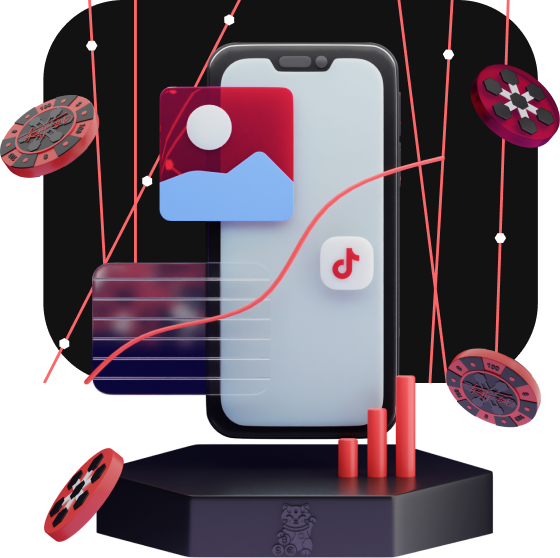
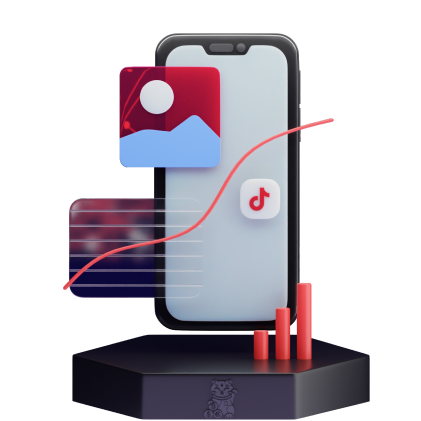
add anim

diff --git a/src/components/index-page-layout/background-items/background-items.jsx b/src/components/index-page-layout/background-items/background-items.jsx
@@ -3,10 +3,7 @@ import * as styles from './background-items.module.css';
 
 import netSvg from '../../../images/background-elements/net.svg';
 
-import lineToRight from '../../../images/background-elements/line-to-right.svg';
-import lineToLeft from '../../../images/background-elements/line-to-left.svg';
-import lineToRight_480 from '../../../images/background-elements/line-to-right-480.svg';
-import lineToLeft_480 from '../../../images/background-elements/line-to-left-480.svg';
+import AnimatedLine from "./animated-line/animated-line";
 
 import bubble2 from '../../../images/background-elements/blurred-circle-2.png'
 import bubble3 from '../../../images/background-elements/blurred-circle-3.png'
@@ -21,22 +18,39 @@ import bubble5_480 from '../../../images/background-elements/blurred-circle-5-48
 import bubble6_480 from '../../../images/background-elements/blurred-circle-6-480.png'
 
 import MediaImage from "../../ui/media-image/media-image";
-import { LangContext } from "../../../utils/contexts";
+import { LangContext, Is480Context } from "../../../utils/contexts";
 
 export default function BackgroundItems() {
+  const [ offset, setOffset ] = React.useState(0)
+
   const lang = React.useContext(LangContext).lang
-  const langPrefix =  lang !== 'ru' ? lang : ''
+  const is480 = React.useContext(Is480Context);
+
+  const langPrefix =  lang !== 'ru' ? lang : '';
+
+  React.useEffect(() => {
+    const documentHeight = document.body.scrollHeight
+    console.log(documentHeight);
+    const handleScroll = () => {
+      setOffset((window.pageYOffset / documentHeight) * 80);
+    }
+    handleScroll()
+
+    window.addEventListener('scroll', handleScroll)
+    return () => window.removeEventListener('scroll', handleScroll)
+  }, [])
+  
   return (
     <div className={styles.backgroundItems}>
       <div className={`${styles.net1} ${styles['net1' + langPrefix]}`}><MediaImage image={netSvg} no480={true}/></div>
       <div className={`${styles.net2} ${styles['net2' + langPrefix]}`}><MediaImage image={netSvg} no480={true}/></div>
       <div className={`${styles.net3} ${styles['net3' + langPrefix]}`}><MediaImage image={netSvg} no480={true}/></div>
       <div className={`${styles.net4} ${styles['net4' + langPrefix]}`}><MediaImage image={netSvg} no480={true}/></div>
-
-      <div className={`${styles.line1} ${styles['line1' + langPrefix]}`}><MediaImage image={lineToRight} image480={lineToRight_480}/></div>
-      <div className={`${styles.line2} ${styles['line2' + langPrefix]}`}><MediaImage image={lineToLeft} image480={lineToLeft_480}/></div>
-      <div className={`${styles.line3} ${styles['line3' + langPrefix]}`}><MediaImage image={lineToRight} image480={lineToRight_480}/></div>
-      <div className={`${styles.line4} ${styles['line4' + langPrefix]}`}><MediaImage image={lineToLeft} image480={lineToLeft_480}/></div>
+      
+      <div className={`${styles.line1} ${styles['line1' + langPrefix]}`}><AnimatedLine position={offset}/></div>
+      <div className={`${styles.line2} ${styles['line2' + langPrefix]}`}><AnimatedLine position={offset} isRight={true} /></div>
+      <div className={`${styles.line3} ${styles['line3' + langPrefix]}`}><AnimatedLine position={offset}/></div>
+      <div className={`${styles.line4} ${styles['line4' + langPrefix]}`}><AnimatedLine position={offset} isRight={true} /></div>
       
       <div className={`${styles.blurredBubble2} ${styles['blurredBubble2' + langPrefix]}`}><MediaImage image={bubble2} image480={bubble2_480}/></div>
       <div className={`${styles.blurredBubble3} ${styles['blurredBubble3' + langPrefix]}`}><MediaImage image={bubble3} image480={bubble3_480}/></div>

diff --git a/src/components/sections/what-we-do/what-we-do.jsx b/src/components/sections/what-we-do/what-we-do.jsx
@@ -4,6 +4,7 @@ import WhatWeDoCard from "./what-we-do-card/what-we-do-card";
 import MediaImage from '../../ui/media-image/media-image'
 import BasicButton from "../../ui/basic-button/basic-button";
 import { Is480Context, LangContext } from "../../../utils/contexts";
+import WhatWeDoImage from "./what-we-do-image/what-we-do-image";
 
 import phoneIcon from '../../../images/icons/phone-1.svg';
 import calendarIcon from '../../../images/icons/calendar-1.svg';
@@ -12,8 +13,8 @@ import bannerIcon from '../../../images/icons/banner.svg';
 import coinIcon from '../../../images/icons/coin.svg';
 import sortIcon from '../../../images/icons/sort.svg';
 import graphIcon from '../../../images/icons/graph-2.svg';
-import image from '../../../images/what-we-do/what-we-do.png';
-import image_480 from '../../../images/what-we-do/what-we-do-480.png';
+
+
 
 export default function WhatWeDo({openFormPopupHandler}) {
   const is480 = React.useContext(Is480Context);
@@ -23,9 +24,7 @@ export default function WhatWeDo({openFormPopupHandler}) {
     <section className={styles.whatWeDo}>
       <div className={styles.content}>
 
-        <div className={styles.imageContainer}>
-          <MediaImage image={image} image480={image_480} />
-        </div>
+        <WhatWeDoImage />
         <div className={styles.textContainer}>
           <h2 className={styles.title}>{is480 ? data.title480 : data.title}<br/><span style={{color: 'var(--color-red-1'}}>{is480 ? data.subtitle480 : data.subtitle}</span></h2>
           <ul className={styles.list}>

diff --git a/src/components/sections/what-we-do/what-we-do-image/what-we-do-image.jsx b/src/components/sections/what-we-do/what-we-do-image/what-we-do-image.jsx
@@ -1,0 +1,38 @@
+import * as React from "react"
+import * as styles from './what-we-do-image.module.css';
+import lottie from 'lottie-web';
+import animation from '../../../../images/what-we-do/back.json';
+import image from '../../../../images/what-we-do/what-we-do.png';
+import image_480 from '../../../../images/what-we-do/what-we-do-480.png';
+import MediaImage from "../../../ui/media-image/media-image";
+import coin1 from '../../../../images/what-we-do/coin-1.png';
+import coin2 from '../../../../images/what-we-do/coin-2.png';
+import coin3 from '../../../../images/what-we-do/coin-3.png';
+
+
+export default function WhatWeDoImage() {
+  const lottieContainer = React.useRef()
+
+  React.useEffect(() => {
+    const anim = lottie.loadAnimation({
+      container: lottieContainer.current,
+      animationData: animation,
+      rendere: 'svg',
+      loop: true,
+      autoplay: true,
+
+    })
+    return () => anim.destroy()
+  }, [lottieContainer])
+
+  return (
+    <div className={styles.imageContainer}>
+      <div ref={lottieContainer} className={styles.lottieDiv} />
+      <MediaImage image={image} image480={image_480}/>
+      <div className={styles.coin1}><MediaImage image={coin1}/></div>
+      <div className={styles.coin2}><MediaImage image={coin2}/></div>
+      <div className={styles.coin3}><MediaImage image={coin3}/></div>
+
+    </div>
+  )
+}

diff --git a/src/components/sections/what-we-do/what-we-do-image/what-we-do-image.module.css b/src/components/sections/what-we-do/what-we-do-image/what-we-do-image.module.css
@@ -1,0 +1,87 @@
+@keyframes float {
+	0% {
+		transform: translatey(0rem);
+	}
+	50% {
+		transform: translatey(-20rem);
+	}
+	100% {
+		transform: translatey(0rem);
+	}
+}
+
+
+.imageContainer {
+  width: 581rem;
+  height: 577rem;
+  position: relative;
+}
+
+.lottieDiv {
+  position: absolute;
+  z-index: -1;
+  width: 88%;
+  top:0;
+  left: 9%;
+}
+
+.coin1 {
+  position: absolute;
+  width: 103rem;
+  height: 86rem;
+  top: 92rem;
+  left: 21rem;
+  animation: float 7s 1s ease-in-out infinite;
+
+}
+
+.coin2 {
+  position: absolute;
+  width: 97rem;
+  height: 99rem;
+  top: 54rem;
+  left: 481rem;
+  animation: float 6s  ease-in-out infinite;
+
+}
+
+.coin3 {
+  position: absolute;
+  width: 98rem;
+  height: 82rem;
+  top: 344rem;
+  left: 464rem;
+  animation: float 5s 2s ease-in-out infinite;
+}
+
+
+@media screen and (max-width: 480px) {
+  .imageContainer {
+    width: 280rem;
+    height: 280rem;
+  }
+
+  .coin1 {
+    width: 49rem;
+    height: 41rem;
+    top: 26rem;
+    left: 0rem;
+  }
+  
+  .coin2 {
+    width: 44rem;
+    height: 42rem;
+    top: 32rem;
+    left: auto;
+    right: -10rem;
+  }
+  
+  .coin3 {
+    width: 47rem;
+    height: 40rem;
+    top: 153rem;
+    left: auto;
+    right: 10rem;
+  }
+
+}

diff --git a/src/components/index-page-layout/background-items/animated-line/animated-line.module.css b/src/components/index-page-layout/background-items/animated-line/animated-line.module.css
@@ -1,0 +1,53 @@
+.divLineContainer {
+  width: 100%;
+  height: 100%;
+  position: relative;
+}
+
+.divLine {
+  position: absolute;
+  top: -6.5rem;
+  width: 100%;
+  display: grid;
+  grid-template-columns: 30% max-content 1fr;
+  align-items: center;
+  transform-origin: 0% 0%;
+  transform: rotate(3.6deg);
+  overflow: hidden;
+}
+
+.isRight .divLine {
+  transform-origin: 100% 100%;
+  transform: rotate(-3.6deg);
+}
+
+.divLineRed {
+  height: 1rem;
+  width: 100%;
+  background-color: #FF6666;
+}
+
+.isRight .divLineRed {
+  background-color: var(--color-dark-1);
+  
+}
+
+.divLineWhite {
+  height: 1rem;
+  width: 100%;
+  background-color: var(--color-dark-1);
+}
+
+.isRight .divLineWhite {
+  background-color: #FF6666;
+  
+}
+
+.dot {
+  background-image: url(../../../../images/misc/line-dot.svg);
+  background-position: center;
+  background-repeat: no-repeat;
+  background-size: 100% 100%;
+  width: 15rem;
+  height: 13rem;
+}

diff --git a/src/hooks/use-media-match.jsx b/src/hooks/use-media-match.jsx
@@ -1,18 +1,11 @@
 import React from "react";
 
-export default function useMediaMatch(media) {
-  const [isMatch, setIsMatch] = React.useState(false);
+export default function useTopOffset(ref) {
+  const [topOffset, setTopOffset] = React.useState(null);
 
   React.useLayoutEffect(() => {
-    const handleMediaChange = (evt) => {
-      if (evt.matches !== isMatch) setIsMatch(evt.matches)
-    }
-    const mediaQuire = window.matchMedia(media);
-    handleMediaChange(mediaQuire)
-    mediaQuire.addEventListener('change', handleMediaChange)
-    
-    return () => mediaQuire.removeEventListener('change', handleMediaChange)
+    setTopOffset(ref.getBoundingClientRect())
   }, []);
 
-  return isMatch;
+  return topOffset;
 }

diff --git a/src/components/index-page-layout/background-items/animated-line/animated-line.jsx b/src/components/index-page-layout/background-items/animated-line/animated-line.jsx
@@ -1,0 +1,14 @@
+import * as React from "react"
+import * as styles from './animated-line.module.css';
+
+export default function AnimatedLine({ isRight, position }) {
+  return (
+    <div className={`${styles.divLineContainer} ${isRight ? styles.isRight : ''}`}>
+      <div style={{gridTemplateColumns: `${position}% max-content 1fr`}} className={styles.divLine}>
+        <div className={styles.divLineRed}></div>
+        <div className={styles.dot}></div>
+        <div className={styles.divLineWhite}></div>
+      </div>
+    </div>
+  )
+}

diff --git a/src/components/sections/what-we-do/what-we-do.module.css b/src/components/sections/what-we-do/what-we-do.module.css
@@ -12,11 +12,6 @@
   gap: 80rem;
 }
 
-.imageContainer {
-  width: 581rem;
-  height: 577rem;
-}
-
 .textContainer {
   margin-top: 62rem;
 }
@@ -53,11 +48,6 @@
     width: 280rem;
     grid-template-columns: auto;
     gap: 32rem;
-  }
-
-  .imageContainer {
-    width: 280rem;
-    height: 280rem;
   }
 
   .title {

diff --git a/src/pages/index.ru.jsx b/src/pages/index.ru.jsx
@@ -27,6 +27,7 @@ export default function IndexPage() {
   const [ formPopupOpen, setFormPopupOpen ] = React.useState(false);
   const [ navPopupOpen, setNavPopupOpen ] = React.useState(false);
 
+
   const openNavPopup = () =>  setNavPopupOpen(true);
   const closeNavPopup = () => setNavPopupOpen(false);
 

diff --git a/src/components/index-page-layout/background-items/background-items.module.css b/src/components/index-page-layout/background-items/background-items.module.css
@@ -6,7 +6,7 @@
   z-index: 1;
 }
 
-.backgroundItems div {
+.backgroundItems > div {
   position: absolute;
 }
 
